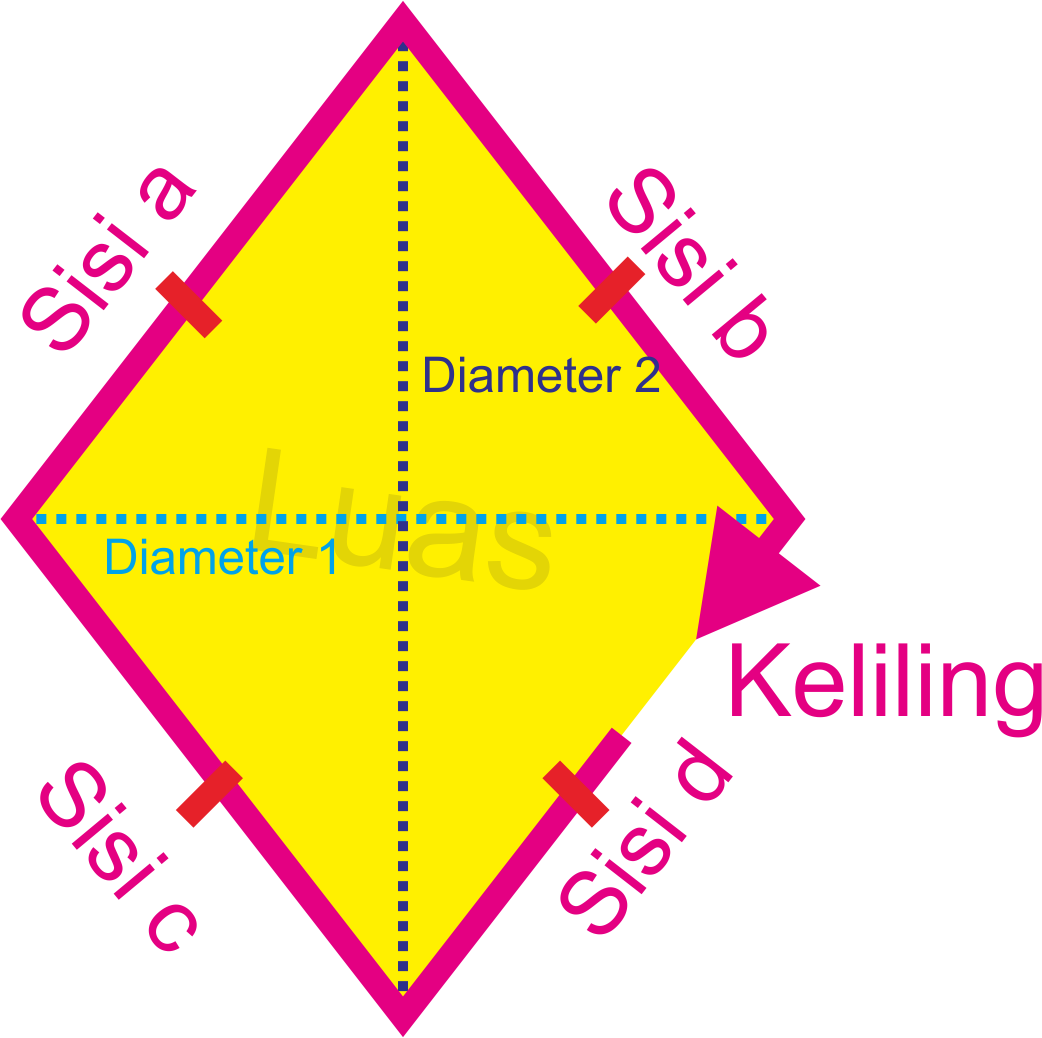
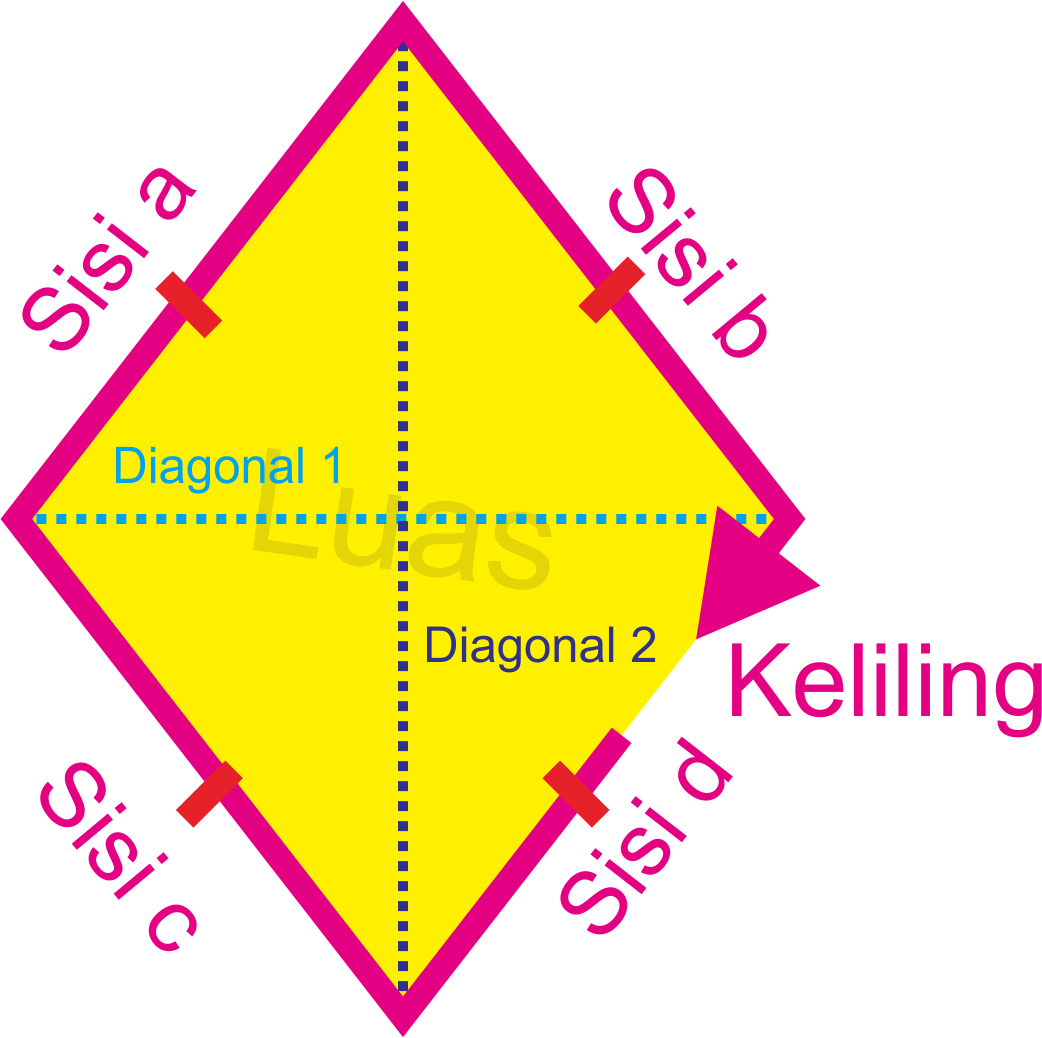
update input luas belah ketupat (develop)

diff --git a/belahketupat.html b/belahketupat.html
@@ -45,9 +45,43 @@
                     <button id="hasil-keliling-belahketupat" class="btn" onclick="kelilingBelahKetupat()">Hasil</button>
                 </div>
 
-                <!-- input luas -->
-               
+                <!-- input luas  -->
+                <div class="luas-belahketupat">
+                    <select name="opsi-luas-belahketupat" id="opsi-luas-belahketupat" style="width: 350px;">
+                        <option value="" disabled selected>Pilih rumus</option>
+                        <option value="diagonal">Menggunakan Diagonal</option>
+                        <option value="sisi">Menggunakan panjang sisi dan tinggi</option>
+                    </select>
 
+                    <!-- input dengan rumus diagonal -->
+                    <div class="luas-rumus-diagonal" style="display: flex; justify-content: center; align-items: center; flex-direction: column;">
+                        <h2 style="text-align: center;">Masukkan panjang diagonal 1</h2>
+                        <input id="input-diagonal1-belahketupat-l" class="input-sisi-belahketupat" type="number">
+                        <h2 style="text-align: center;">Masukkan panjang diagonal 2</h2>
+                        <input id="input-diagonal2-belahketupat-l" class="input-sisi-belahketupat" type="number">
+                        <button id="hasil-luas-belahketupat" class="btn" onclick="luasRumusDIagonalBelahKetupat()">Hasil</button>
+                    </div>
+
+                    <!-- input dengan rumus a x t -->
+                    <div class="luas-rumus-at" style="display: flex; justify-content: center; align-items: center; flex-direction: column;">
+                        <h2 style="text-align: center;">Masukkan panjang sisi</h2>
+                        <input id="input-sisi-belahketupat-l" class="input-sisi-belahketupat" type="number">
+                        <h2 style="text-align: center;">Masukkan tinggi</h2>
+                        <input id="input-tinggi-belahketupat-l" class="input-sisi-belahketupat" type="number">
+                        <button id="hasil-luas-belahketupat" class="btn" onclick="luasRumusAtBelahKetupat()">Hasil</button>
+                    </div>
+                </div>
+
+                <!-- input diagonal -->
+                <div class="diagonal-belahketupat" style="display: flex; justify-content: center; align-items: center; flex-direction: column;">
+                    <h2 style="text-align: center;">Masukkan luas belah ketupat</h2>
+                    <input id="input-luas-belahketupat-d" class="input-sisi-belahketupat" type="number">
+                    <h2 style="text-align: center;">Masukkan diagonal lainnya yang diketahui</h2>
+                    <input id="input-diagonal2-belahketupat-d" class="input-sisi-belahketupat" type="number">
+                    <button id="hasil-diagonal-belahketupat" class="btn" onclick="diagonalBelahKetupat()">Hasil</button>
+                </div>
+
+                
                 <div class="belahketupat-output" style="text-align: center; display: flex; justify-content: center; align-items: center; flex-direction: column;">
                     <h2 id="output-belahketupat3"></h2>
                     <h2 id="output-penjelasan" onclick="showText()"></h2>
